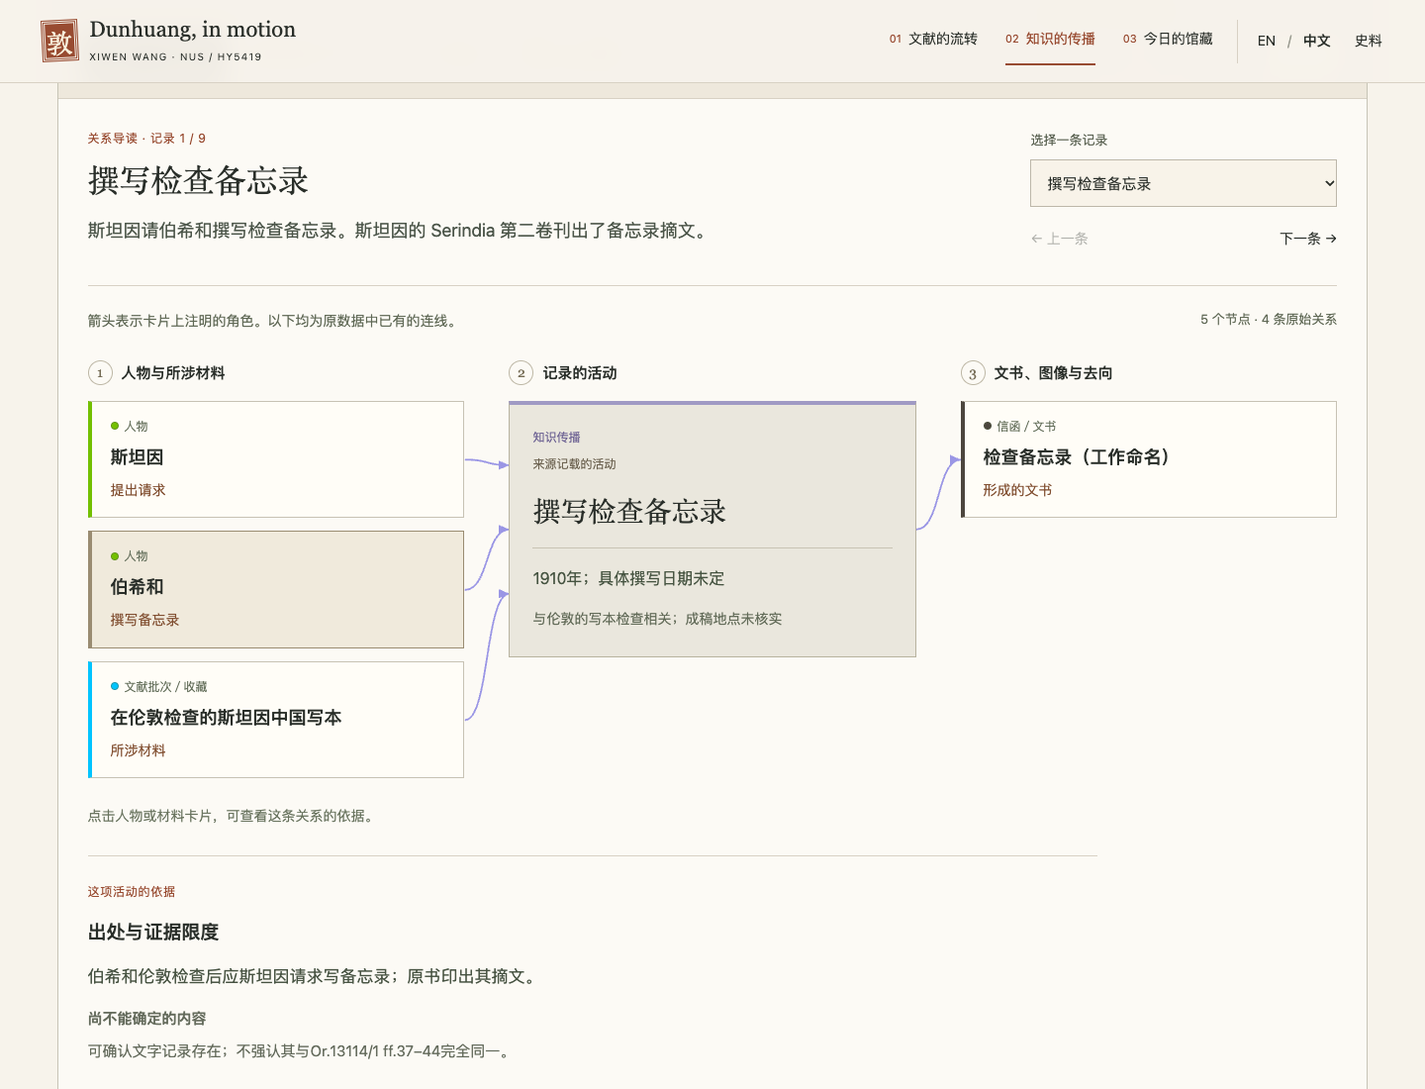
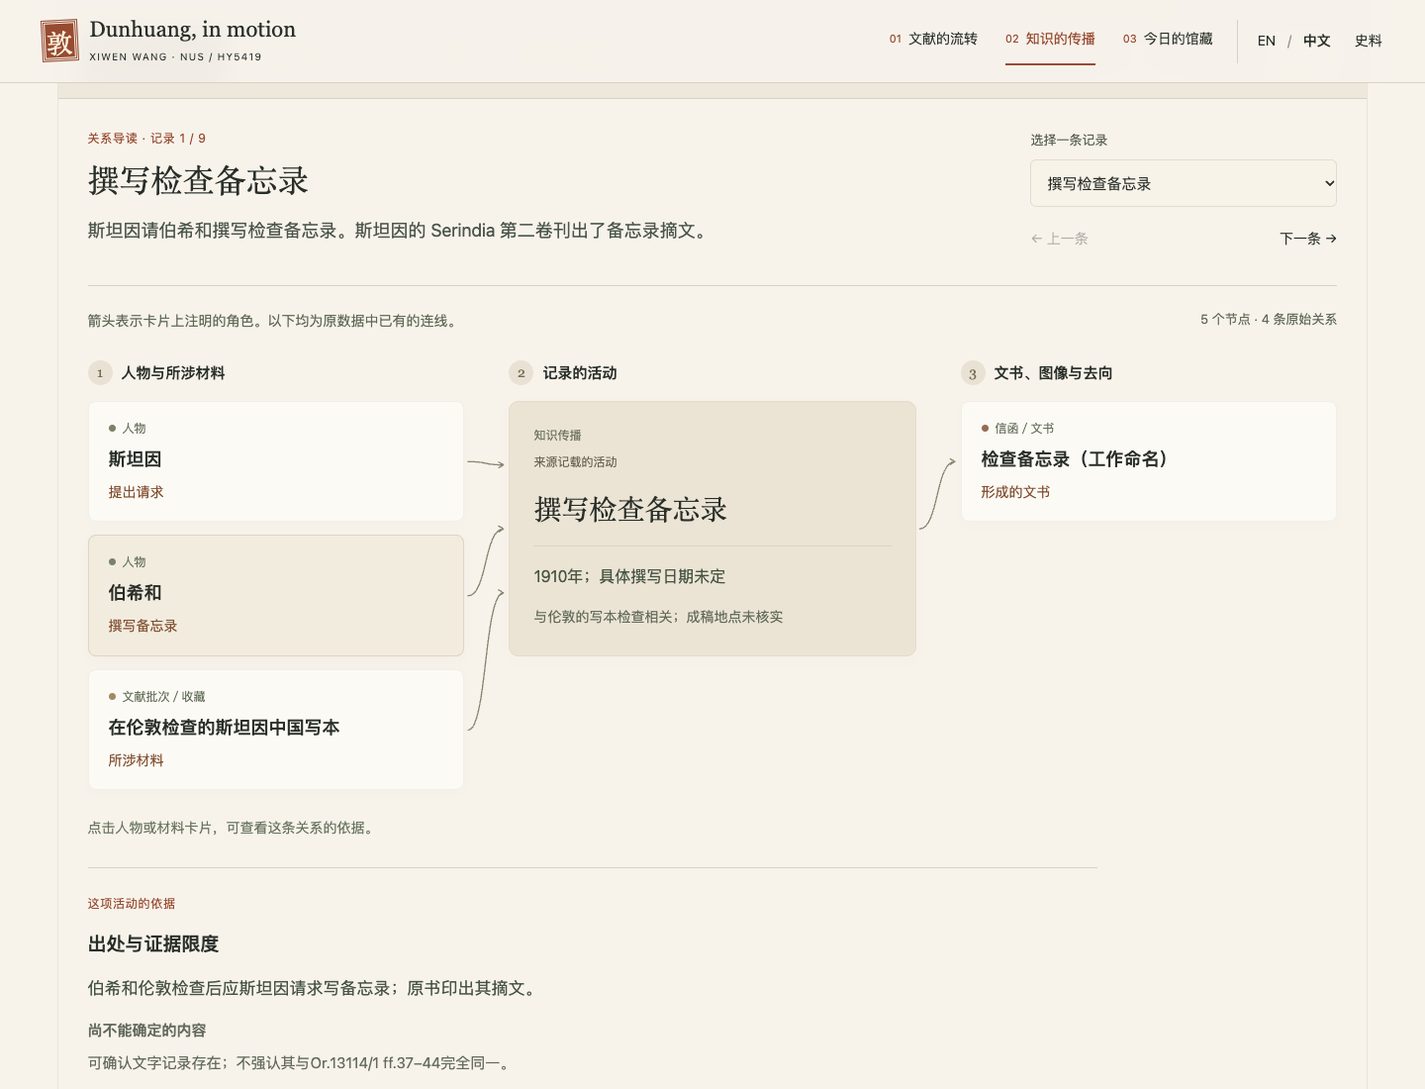
Soften relationship guide cards and align colours with exhibition

diff --git a/dist/network-guide.css b/dist/network-guide.css
@@ -1,30 +1,30 @@
 /* Event-centred reading with full names, explicit roles and original directed edges. */
-.relationship-guide{padding:30px;background:#fcfaf5}
+.relationship-guide{padding:30px;background:var(--paper)}
 .guide-header{display:grid;grid-template-columns:minmax(0,1fr) 310px;gap:40px;padding-bottom:25px;border-bottom:1px solid var(--line)}
 .guide-small-title{font-size:12px;letter-spacing:.06em;color:var(--red);line-height:1.6}
 .guide-header h3{font:32px/1.3 var(--serif);margin:12px 0 15px;max-width:800px}
 .guide-lead{font-size:18px;line-height:1.8;max-width:760px;color:#4b5549}
 .guide-selector label{display:block;font-size:13px;margin-bottom:9px;color:#596151}
-.guide-selector select{font:15px/1.6 var(--sans);color:var(--ink);background:#f8f3e9;border:1px solid #bdb7a9;padding:11px 30px 11px 12px;width:100%;min-height:48px;border-radius:0;white-space:normal}
+.guide-selector select{font:15px/1.6 var(--sans);color:var(--ink);background:#f8f3e9;border:1px solid #cfc4b380;padding:11px 30px 11px 12px;width:100%;min-height:48px;border-radius:6px;white-space:normal}
 .guide-paging{display:flex;justify-content:space-between;gap:15px;margin-top:10px}.guide-paging button{font-size:14px;padding:8px 0;min-height:44px}.guide-paging button:disabled{opacity:.35}
 .guide-reading{display:flex;justify-content:space-between;gap:25px;padding:22px 0 27px;align-items:start;font-size:14px;line-height:1.8;color:#606956}
 .guide-reading p{max-width:650px}.guide-reading>span{white-space:nowrap;font-variant-numeric:tabular-nums;font-size:13px}
 .relation-diagram{display:grid;grid-template-columns:minmax(0,1fr) minmax(0,1.08fr) minmax(0,1fr);gap:45px;align-items:start}
 .relation-diagram>section{min-width:0;position:relative}
 .relation-diagram h4{display:flex;align-items:center;gap:9px;font-size:15px;line-height:1.5;margin:0 0 16px;min-height:25px;font-weight:600}
-.relation-diagram h4>span{font:14px var(--serif);border:1px solid #beb8a6;border-radius:50%;width:25px;height:25px;display:inline-flex;align-items:center;justify-content:center;flex-shrink:0;color:#746b54}
+.relation-diagram h4>span{font:14px var(--serif);border:0;background:#e9e2d4;border-radius:50%;width:25px;height:25px;display:inline-flex;align-items:center;justify-content:center;flex-shrink:0;color:#746b54}
 .relation-cards{display:grid;gap:13px}
-.relation-card{position:relative;width:100%;text-align:left;display:block;border:1px solid #c7c2b4;border-left:4px solid var(--node-color);background:#fffdf7;padding:15px 19px 16px;min-height:110px;box-shadow:none;transition:border-color .15s,background .15s;overflow-wrap:anywhere}
-.relation-card:hover{background:#f0eadc;border-color:#9a8c72}.relation-card.selected{outline:2px solid #984b31;outline-offset:2px;background:#f3e9d9}
-.relation-type{font-size:12px;line-height:1.6;color:#65705c;display:flex;align-items:center;gap:6px}.relation-type i{height:8px;width:8px;border-radius:50%;background:var(--node-color);border:1px solid #56644870;display:inline-block;flex-shrink:0}
+.relation-card{position:relative;width:100%;text-align:left;display:block;border:1px solid #dcd4c64d;border-radius:8px;background:#fcfaf5;padding:17px 20px 18px;min-height:110px;box-shadow:0 3px 12px #51432a04;transition:border-color .15s,background .15s,box-shadow .15s;overflow-wrap:anywhere}
+.relation-card:hover{background:#f2ecdf;border-color:#cbbda780;box-shadow:0 4px 14px #51432a08}.relation-card.selected{outline:0;border-color:#a66c4d80;background:#efe5d5;box-shadow:inset 0 0 0 1px #a66c4d26}.relation-card:focus-visible{outline:2px solid var(--red);outline-offset:4px}
+.relation-type{font-size:12px;line-height:1.6;color:#65705c;display:flex;align-items:center;gap:7px}.relation-type i{height:7px;width:7px;border-radius:50%;background:var(--node-color);border:0;display:inline-block;flex-shrink:0}
 .relation-card strong{display:block;font-size:18px;font-weight:600;line-height:1.5;margin:8px 0 9px}.relation-role{display:block;font-size:14px;line-height:1.6;color:#825032}
 .relation-direction{position:absolute;top:50%;right:-34px;transform:translateY(-50%);color:#818975;font-size:25px;font-weight:400;pointer-events:none}
 .guide-outputs .relation-direction{right:auto;left:-34px}
-.activity-card{border:1px solid #b8b39f;border-top:4px solid #a09ac4;background:#eae7dd;padding:23px 23px 26px;min-height:235px;margin-top:0}
-.activity-card.proposal,.activity-card.promise{border-style:dashed;border-top-style:solid;background:#f0e8d9}
-.activity-state{font-size:12px;line-height:1.6;color:#6c6250}.activity-card h5{font:28px/1.4 var(--serif);font-weight:400;margin:18px 0}.activity-date{font-size:16px;line-height:1.8;color:#465441;border-top:1px solid #c8c3b3;padding-top:16px;margin-top:18px}.activity-place{font-size:14px;line-height:1.8;margin-top:13px;color:#626b58}
+.activity-card{border:1px solid #d3c7b54d;border-radius:10px;background:#ebe4d5;padding:24px 24px 27px;min-height:235px;margin-top:0;box-shadow:0 5px 20px #51432a04}
+.activity-card.proposal,.activity-card.promise{border:1px dashed #b9a78a;background:#eee5d5}
+.activity-state{font-size:12px;line-height:1.6;color:#6c6250}.activity-card h5{font:28px/1.4 var(--serif);font-weight:400;margin:18px 0}.activity-date{font-size:16px;line-height:1.8;color:#465441;border-top:1px solid #9d8d6e30;padding-top:16px;margin-top:18px}.activity-place{font-size:14px;line-height:1.8;margin-top:13px;color:#626b58}
 .activity-scope{font-size:13px;line-height:1.8;border-top:1px solid #c8c3b3;margin-top:18px;padding-top:15px;color:#815133}
-.guide-no-record{border:1px dashed #c6c0b1;padding:23px 20px;font-size:15px;line-height:1.9;color:#6e7466;background:#f8f4eb;min-height:110px}
+.guide-no-record{border:0;border-radius:8px;padding:23px 20px;font-size:15px;line-height:1.9;color:#6e7466;background:#efeadd;min-height:110px}
 .guide-expand{font-size:14px;padding:13px 0;min-height:44px;text-decoration:underline;color:#7c5037;text-align:left;line-height:1.7}
 .guide-card-help{font-size:14px;color:#69745f;margin:25px 0 28px;line-height:1.8}
 .guide-proof{border-top:1px solid var(--line);padding:26px 0 5px;max-width:1020px;scroll-margin-top:115px}
@@ -42,7 +42,8 @@
 #network[data-network-view=guide] .network-guides{flex:1.5}
 .network-guides button[data-network-guide=all]{border-color:#8c9380}
 .network-guides button:last-child{grid-column:auto}
-.relation-diagram{position:relative}.guide-connectors{position:absolute;left:0;top:0;z-index:0;pointer-events:none;overflow:visible}.relation-diagram>section{z-index:1}.relation-direction{display:none}.activity-layer{font-size:12px;line-height:1.6;color:#6d6293;margin-bottom:8px}
+.relation-diagram{position:relative}.guide-connectors{position:absolute;left:0;top:0;z-index:0;pointer-events:none;overflow:visible}.relation-diagram>section{z-index:1}.relation-direction{display:none}.activity-layer{font-size:12px;line-height:1.6;color:#6b715a;margin-bottom:8px}
+#network[data-network-view=guide] .network-shell{border-color:#d6cdbd80}
 .network-presenting #network[data-network-view=guide] .relationship-guide{padding-top:25px}
 @media(max-width:1100px){.guide-header{grid-template-columns:minmax(0,1fr) 265px;gap:25px}.relation-diagram{gap:32px}.relationship-guide{padding:25px}.relation-card{padding:14px}.relation-card strong{font-size:17px}.relation-direction{right:-26px;font-size:22px}.guide-outputs .relation-direction{left:-26px}.activity-card{padding:20px}.activity-card h5{font-size:25px}.relation-diagram h4{font-size:14px}.guide-reading{display:block}.guide-reading>span{display:block;margin-top:10px}.guide-header h3{font-size:29px}}
 @media(max-width:800px){.guide-header{grid-template-columns:1fr;gap:23px}.guide-selector{max-width:none}.guide-paging{justify-content:flex-start;gap:40px}.guide-header h3{font-size:29px}.guide-lead{font-size:17px}.relation-diagram{grid-template-columns:1fr;gap:42px}.relation-card{min-height:100px;padding:15px 20px}.relation-direction{right:17px;top:auto;bottom:-33px;transform:rotate(90deg);font-size:25px}.guide-outputs .relation-direction{right:17px;left:auto;bottom:auto;top:-32px}.relation-cards{gap:29px}.relation-card strong{font-size:18px}.relation-diagram h4{font-size:16px;margin-bottom:15px}.activity-card{min-height:0;max-width:none}.activity-card h5{font-size:27px}.activity-date{font-size:16px}.guide-activity:after{content:'↓';display:block;font-size:27px;color:#818975;position:absolute;bottom:-37px;right:18px}.guide-outputs .relation-direction{display:none}.guide-proof{scroll-margin-top:125px}.guide-card-help{margin-top:25px}.guide-statement{font-size:17px}.guide-claim{font-size:16px}.guide-limit{font-size:15px}.guide-citation{font-size:12px}.guide-header .guide-selector select{font-size:16px}}

diff --git a/dist/index.html b/dist/index.html
@@ -9,14 +9,14 @@
 <link href="https://3380903218-cmd.github.io/dunhuang-in-motion/" rel="canonical"/>
 <title>Dunhuang, in motion | Manuscripts, journeys &amp; collections</title>
 <link href="assets/favicon.svg" rel="icon" type="image/svg+xml"/>
-<link href="style.css?v=2.2.0" rel="stylesheet"/>
-<link href="network.css?v=2.2.0" rel="stylesheet"/>
-<script defer="" src="data.js?v=2.2.0"></script>
-<script defer="" src="assets/world.js?v=2.2.0"></script>
-<script defer="" src="app.js?v=2.2.0"></script>
-<script defer="" src="network-data.js?v=2.2.0"></script>
-<script defer="" src="network-roles.js?v=2.2.0"></script><script defer="" src="network.js?v=2.2.0"></script>
-<link href="story.css?v=2.2.0" rel="stylesheet"/><script defer="" src="story.js?v=2.2.0"></script><script defer="" src="network-guide.js?v=2.2.0"></script><link href="network-guide.css?v=2.2.0" rel="stylesheet"/><link href="preservation.css?v=2.2.0" rel="stylesheet"/><script defer="" src="preservation-data.js?v=2.2.0"></script><script defer="" src="preservation.js?v=2.2.0"></script></head>
+<link href="style.css?v=2.2.1" rel="stylesheet"/>
+<link href="network.css?v=2.2.1" rel="stylesheet"/>
+<script defer="" src="data.js?v=2.2.1"></script>
+<script defer="" src="assets/world.js?v=2.2.1"></script>
+<script defer="" src="app.js?v=2.2.1"></script>
+<script defer="" src="network-data.js?v=2.2.1"></script>
+<script defer="" src="network-roles.js?v=2.2.1"></script><script defer="" src="network.js?v=2.2.1"></script>
+<link href="story.css?v=2.2.1" rel="stylesheet"/><script defer="" src="story.js?v=2.2.1"></script><script defer="" src="network-guide.js?v=2.2.1"></script><link href="network-guide.css?v=2.2.1" rel="stylesheet"/><link href="preservation.css?v=2.2.1" rel="stylesheet"/><script defer="" src="preservation-data.js?v=2.2.1"></script><script defer="" src="preservation.js?v=2.2.1"></script></head>
 <body class="story-edition">
 <a class="skip-link" data-story-en="Skip to the story" data-story-zh="跳至正文" href="#story-intro">Skip to interactive map</a>
 <header class="site-header">
@@ -59,7 +59,7 @@
 <section class="collections-section story-chapter" id="collections"><div class="wrap"><div class="section-heading"><div><p class="eyebrow" data-i18n="collectionKicker">03 / WHERE THEY ARE NOW</p><h2 data-i18n="collectionsTitle">Related collecting institutions</h2></div><p class="chapter-intro" data-story-en="The five institutions shown here are in London, Paris and Beijing. Their manuscript and print collections are listed separately from related paintings and objects. Each entry links to an official collection page." data-story-zh="本案例涉及伦敦、巴黎和北京的五个现藏机构。各馆收藏类型分别标明，写本、印本与相关绘画、文物分列；链接通往官方馆藏页面。">The five institutions shown here are in London, Paris and Beijing. Their manuscript and print collections are listed separately from related paintings and objects. Each entry links to an official collection page.</p></div><nav class="collection-sections" aria-label="Collection sections"><a href="#collectionGrid" data-story-en="Collecting institutions ↓" data-story-zh="现藏机构 ↓">Collecting institutions ↓</a><a href="#preservation" data-story-en="Preservation &amp; completeness ↓" data-story-zh="保存方式与文献完整度 ↓">Preservation &amp; completeness ↓</a></nav><div class="collection-grid" id="collectionGrid"></div><p class="collection-note" data-i18n="collectionsNote">These institutions represent this case study, not a complete inventory of Dunhuang collections. Locations are city-level references; holding an object does not mean it is on public display.</p><section id="preservation" aria-label="Preservation and manuscript completeness"></section><div class="closing-statement"><p class="eyebrow" data-story-en="ABOUT THIS PROJECT" data-story-zh="项目说明">ABOUT THIS PROJECT</p><h3 data-story-en="Manuscript circulation and Dunhuang scholarship" data-story-zh="文献流转与敦煌研究">Manuscript circulation and Dunhuang scholarship</h3><p data-story-en="The map records transfers between places; the network records the people, institutions and events involved. Select a transport record or scholarly activity to consult its sources before drawing connections between them." data-story-zh="地图记录材料在地点之间的流转，网络记录相关人物、机构与事件。读者可以从一条运输记录或一次学术活动进入，查阅对应史料，再判断两者之间的联系。">The map records transfers between places; the network records the people, institutions and events involved. Select a transport record or scholarly activity to consult its sources before drawing connections between them.</p><a class="text-link" data-story-en="Read the sources &amp; method ↓" data-story-zh="查看史料与方法 ↓" href="#sources"></a></div></div></section>
 <section class="sources wrap story-chapter" id="sources"><div class="method-heading"><p class="eyebrow" data-i18n="sourcesKicker">04 / BEHIND THE MAP</p><h2 data-i18n="sourcesTitle">Sources and evidence</h2><p data-i18n="sourceIntro">The route map and relationship network draw on expedition accounts, correspondence, research publications and collection catalogues. Select a map connection or network node to consult its sources and evidence notes. Unverified stops and links to individual manuscripts are left unspecified.</p><a class="text-link" data-i18n="download" download="dunhuang-exhibition-data.json" href="#" id="downloadData">Download exhibition data ↓</a></div><div class="method-content"><div class="method-notes"><article><span>01</span><div><h3 data-i18n="method1Title">Routes and locations</h3><p data-i18n="method1">Map lines represent geographical connections recorded in the sources, rather than every stop along a journey. Unverified stops, ports and historical buildings are left unlocated. Present-day museum addresses are not used as historical handover sites.</p></div></article><article><span>02</span><div><h3 data-i18n="method2Title">Transport and accession records</h3><p data-i18n="method2">Pelliot’s main expedition cargo arrived in Paris in 1909; the BnF records entry of the manuscripts into its department in 1910. These are recorded separately. Cases, scrolls, objects, images and catalogue numbers retain their original units and are not converted into one another.</p></div></article><article><span>03</span><div><h3 data-i18n="method3Title">Batches and individual manuscripts</h3><p data-i18n="method3">Most historical connections are based on records of batches or whole collections. Apart from a few verified catalogue examples, this project has not matched individual manuscripts to every historical handover.</p></div></article></div><details class="source-details"><summary data-i18n="sourceList">Expand historical and collection sources</summary><ol id="sourceList"></ol></details></div></section>
 </main>
-<footer class="site-footer wrap"><div class="footer-brand">敦煌 <span>IN MOTION</span></div><p>HY5419 · DIGITAL HISTORY PROJECT <span>2026</span></p><a data-i18n="imageCredit" href="https://commons.wikimedia.org/wiki/File:Diamond_Sutra_of_868_AD_-_The_Diamond_Sutra_(868),_frontispiece_and_text_-_BL_Or._8210-P.2.jpg" rel="noopener noreferrer" target="_blank">Image: British Library / Wikimedia Commons · CC0 ↗</a><small data-story-en="Collection &amp; preservation sources checked: 29 Oct 2026 · Story edition 2.2.0" data-story-zh="馆藏与保存资料核对：2026-10-29 · 叙事版 2.2.0">Collection &amp; preservation sources checked: 29 Oct 2026 · Story edition 2.2.0</small></footer>
+<footer class="site-footer wrap"><div class="footer-brand">敦煌 <span>IN MOTION</span></div><p>HY5419 · DIGITAL HISTORY PROJECT <span>2026</span></p><a data-i18n="imageCredit" href="https://commons.wikimedia.org/wiki/File:Diamond_Sutra_of_868_AD_-_The_Diamond_Sutra_(868),_frontispiece_and_text_-_BL_Or._8210-P.2.jpg" rel="noopener noreferrer" target="_blank">Image: British Library / Wikimedia Commons · CC0 ↗</a><small data-story-en="Collection &amp; preservation sources checked: 29 Oct 2026 · Story edition 2.2.1" data-story-zh="馆藏与保存资料核对：2026-10-29 · 叙事版 2.2.1">Collection &amp; preservation sources checked: 29 Oct 2026 · Story edition 2.2.1</small></footer>
 <div class="toast" hidden="" id="toast" role="status"></div>
 <noscript><p class="noscript" data-i18n="noScript">The interactive map requires JavaScript. Enable it and reload, or consult the project reading guide for collection and source references.</p></noscript>
 </body>

diff --git a/dist/network-guide.js b/dist/network-guide.js
@@ -14,6 +14,9 @@
   };
   const t=k=>words[language()][k],name=n=>n.label[language()]||n.label.en;
   const types={Person:['Person','人物'],Collection:['Manuscript batch / collection','文献批次／收藏'],Institution:['Institution','机构'],Government:['Government institution','政府机构'],Work:['Letter / document','信函／文书'],Representation:['Image / copy','图像／复制品'],Event:['Activity','活动'],Object:['Individual object','单件文献'],Expedition:['Expedition','考察队'],PublicationOrganisation:['Publisher','出版机构']};
+  // The reading guide follows the exhibition palette; original Gephi colours stay in the full graph.
+  const guideColors={Person:'#788269',Collection:'#a08a65',Institution:'#7c806b',Government:'#7c806b',Work:'#956c52',Representation:'#968769',Event:'#9a775d',Object:'#a08a65',Expedition:'#788269',PublicationOrganisation:'#956c52'};
+  const guideLineColors={'Knowledge transmission':'#85866f','Physical circulation':'#aa7858','Cross-layer':'#8b7965'};
   const aliases={KE007:['Writing the inspection memorandum','撰写检查备忘录'],KE005:['Unpacking, cataloguing and listing','拆箱、编目与列单'],MAP_KE012:['Ministry telegram','学部发出电报'],KE009:['Displaying manuscripts in Beijing','在北京出示写本'],KE006:['Examining manuscripts in London','在伦敦检查写本'],B0010:['Stein Chinese manuscripts examined in London','在伦敦检查的斯坦因中国写本'],W001:['Inspection memorandum (working title)','检查备忘录（工作命名）']};
   const label=n=>aliases[n.id]?.[language()==='zh'?1:0]||name(n);
   const role=e=>window.DUNHUANG_RELATION_TEXT(e,language(),e.label);
@@ -68,7 +71,7 @@
   }
   function nodeCard(edge,incoming){
     const n=N.get(incoming?edge.source:edge.target),kind=types[n.type]?.[language()==='zh'?1:0]||n.type;
-    return `<button class="relation-card${G.edgeId===edge.id?' selected':''}" data-guide-edge="${esc(edge.id)}" aria-pressed="${G.edgeId===edge.id}" aria-controls="guideEvidence" style="--node-color:${esc(n.color)}"><span class="relation-type"><i aria-hidden="true"></i>${esc(kind)}</span><strong>${esc(label(n))}</strong><span class="relation-role">${esc(role(edge))}</span><span class="relation-direction" aria-hidden="true">→</span></button>`;
+    return `<button class="relation-card${G.edgeId===edge.id?' selected':''}" data-guide-edge="${esc(edge.id)}" aria-pressed="${G.edgeId===edge.id}" aria-controls="guideEvidence" style="--node-color:${guideColors[n.type]||'#8b7965'}"><span class="relation-type"><i aria-hidden="true"></i>${esc(kind)}</span><strong>${esc(label(n))}</strong><span class="relation-role">${esc(role(edge))}</span><span class="relation-direction" aria-hidden="true">→</span></button>`;
   }
   function drawLinks(){
     panel.querySelector('.guide-connectors')?.remove();
@@ -82,15 +85,15 @@
     for(const [selector,incoming] of groups){
       const cards=[...diagram.querySelectorAll(selector)];
       cards.forEach((card,i)=>{
-        const edge=E.get(card.dataset.guideEdge),r=card.getBoundingClientRect(),selected=edge.id===G.edgeId,color=selected?'#984b31':edge.color;
+        const edge=E.get(card.dataset.guideEdge),r=card.getBoundingClientRect(),selected=edge.id===G.edgeId,color=selected?'#984b31':guideLineColors[edge.attributes.Layer]||'#8b7965';
         const marker=document.createElementNS(NS,'marker'),id='guide-arrow-'+(incoming?'in':'out')+'-'+i;
-        for(const [k,v] of Object.entries({id,viewBox:'0 0 8 8',refX:7,refY:4,markerWidth:7,markerHeight:7,orient:'auto'}))marker.setAttribute(k,v);
-        const tip=document.createElementNS(NS,'path');tip.setAttribute('d','M0 1L7 4L0 7Z');tip.setAttribute('fill',color);marker.append(tip);defs.append(marker);
-        const a=incoming?[r.right-bounds.left,r.top+r.height/2-bounds.top]:[box.right-bounds.left,box.top+box.height*(i+1)/(cards.length+1)-bounds.top];
-        const b=incoming?[box.left-bounds.left,box.top+box.height*(i+1)/(cards.length+1)-bounds.top]:[r.left-bounds.left,r.top+r.height/2-bounds.top];
+        for(const [k,v] of Object.entries({id,viewBox:'0 0 10 10',refX:8,refY:5,markerWidth:10,markerHeight:10,markerUnits:'userSpaceOnUse',orient:'auto'}))marker.setAttribute(k,v);
+        const tip=document.createElementNS(NS,'path');tip.setAttribute('d','M3 2L8 5L3 8');tip.setAttribute('fill','none');tip.setAttribute('stroke',color);tip.setAttribute('stroke-width',selected?'1.8':'1.3');tip.setAttribute('stroke-linecap','round');tip.setAttribute('stroke-linejoin','round');marker.append(tip);defs.append(marker);
+        const a=incoming?[r.right-bounds.left+3,r.top+r.height/2-bounds.top]:[box.right-bounds.left+3,box.top+box.height*(i+1)/(cards.length+1)-bounds.top];
+        const b=incoming?[box.left-bounds.left-6,box.top+box.height*(i+1)/(cards.length+1)-bounds.top]:[r.left-bounds.left-6,r.top+r.height/2-bounds.top];
         const gap=(b[0]-a[0])*.55,p=document.createElementNS(NS,'path');
         p.setAttribute('d',`M${a[0]},${a[1]} C${a[0]+gap},${a[1]} ${b[0]-gap},${b[1]} ${b[0]},${b[1]}`);
-        p.setAttribute('fill','none');p.setAttribute('stroke',color);p.setAttribute('stroke-width',selected?'2.8':'1.8');p.setAttribute('marker-end',`url(#${id})`);p.dataset.guideConnector=edge.id;
+        p.setAttribute('fill','none');p.setAttribute('stroke',color);p.setAttribute('stroke-width',selected?'1.9':'1.3');p.setAttribute('stroke-linecap','round');p.setAttribute('stroke-linejoin','round');p.setAttribute('marker-end',`url(#${id})`);p.dataset.guideConnector=edge.id;
         if(['Proposal made','Recorded promise'].includes(edge.attributes.ProcessState))p.setAttribute('stroke-dasharray','5 4');
         svg.append(p);
       });

diff --git a/docs/RELATIONSHIP_GUIDE.md b/docs/RELATIONSHIP_GUIDE.md
@@ -34,3 +34,8 @@ This release does not change `data.js`, `network-data.js` or the downloadable GE
 ## Verification
 
 `relation-guide-verification.json` records checks across 320, 390, 768, 1024 and 1440 pixel widths in both languages. All 42 event projections are compared against the original edge endpoints. Checks also cover selected-edge evidence, keyboard operation, language retention, proposal status, eighteen banquet attendees, telegram direction, route-map linking, global search and both full-network layers.
+
+
+## Exhibition styling (2.2.1)
+
+The guide uses muted sage, ochre and brown, with a parchment activity panel. Thin translucent borders and softly rounded cards replace the heavy node-colour stripes. Connections use thin curved strokes and open arrowheads; a selected card and its connection use the site’s terracotta accent. Keyboard focus remains distinct. These are display-only colours: the original Gephi node/edge colours, research snapshot, directions and downloadable GEXF are unchanged.

diff --git a/README.md b/README.md
@@ -106,4 +106,4 @@ Historical evidence organisation · relational data modelling · Gephi network v
 
 点击顶部 **Network／传播网络** 可搜索人物、查看关系和证据，并切换传播层或年份。点击已匹配的事件，可跳回路线地图。项目的研究范围、证据限制和资产来源分别见 [DATA_NOTES.md](DATA_NOTES.md) 与 [CREDITS.md](CREDITS.md)。
 
-Website release **v2.2.0 · 29 October 2026**.
+Website release **v2.2.1 · 29 October 2026**.
